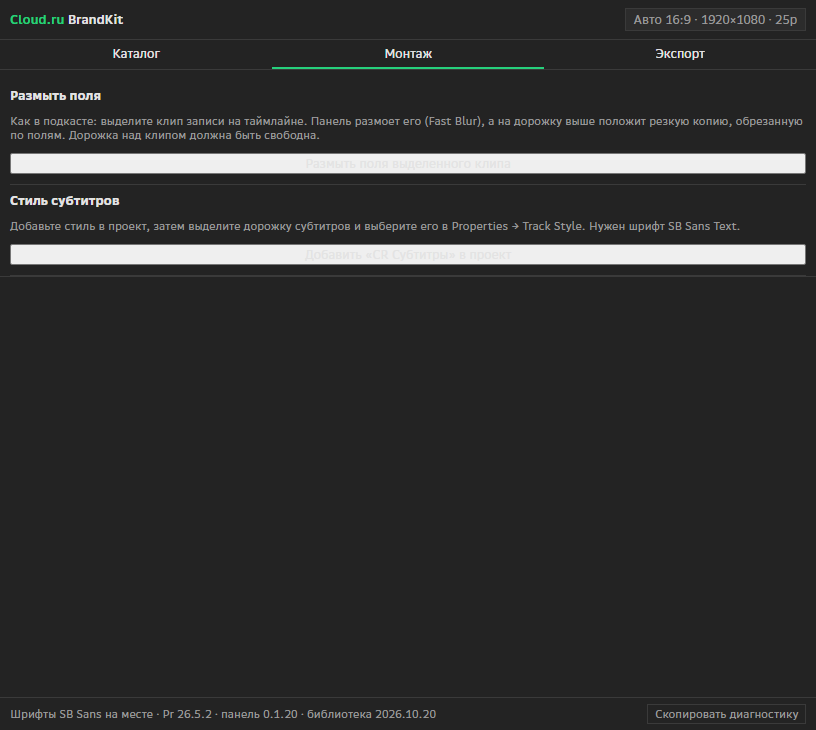
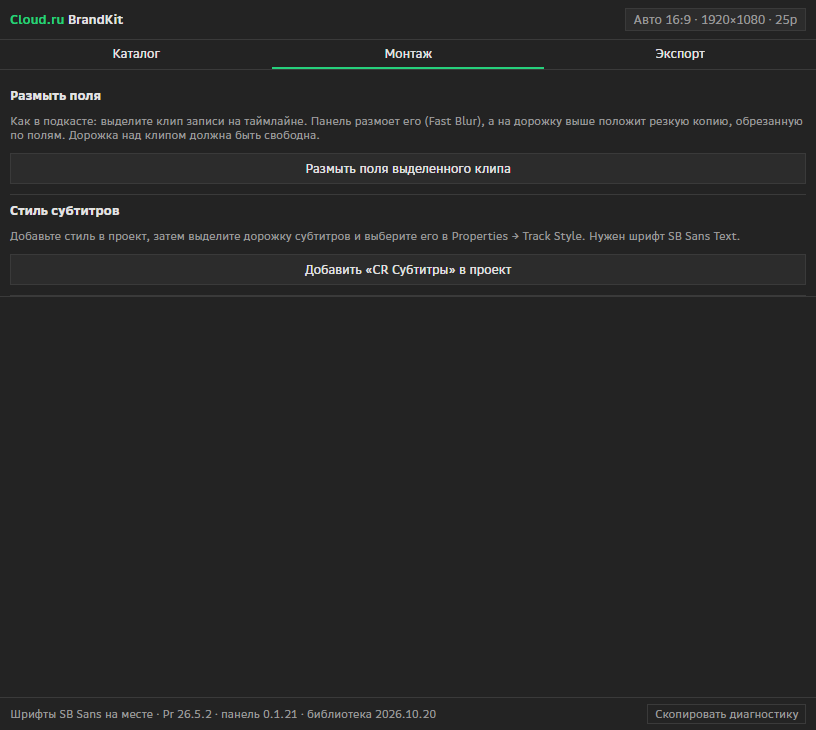
test(checkpoint): Windows checkpoint green on panel 0.1.21; Track Style and the installed Premiere panel seen
Premiere media 135 (the A2 sound check added), transfer 4, ui 22; AE ui 20
with the dark tool buttons of «Движение»; npm test 804 passed. Track Style
lists the caption style as «CR Субтитры» and one click gives it (SB Sans
Text 35, tracking −32, the plate): edit-track-style.png. The release panel
0.1.20 in Premiere: Каталог, Монтаж, Экспорт, both edit buttons. Plan 4 and
the reply note that development goes on here, without the cloud.

Changed region(s): [[0.0, 0.2712, 1.0, 0.3918], [0.0, 0.211, 1.0, 0.2411]]

diff --git a/docs/superpowers/plans/2026-10-07-phase2-templates.md b/docs/superpowers/plans/2026-10-07-phase2-templates.md
@@ -1,6 +1,7 @@
 # План 4: шаблоны и эффекты (фаза 2), продолжение
 
 **Дата:** 2026-10-07. **Ветка:** `claude/determined-cannon-eum3ei`.
+**2026-10-20:** вся разработка идёт на сборочном ПК, без облака (решение пользователя). Дампы остаются в `C:/CRBK/work/dumps` и в репозиторий не переносятся; разделы «Главная помеха» и «Что делается где» больше не нужны, все шаги — здесь.
 **Основание:** spec §3, фаза 2 «Шаблоны и эффекты»: ~25 параметрических мастеров (§5), ~12 `.ffx`, рендеры T2, звуки, пресеты AME; конвейер §4.4. Попакетно: первый пакет (логошоты и титры) прошёл весь путь, дальше подкаст, SMM, курсы, вебинары.
 
 ## Где мы
@@ -13,8 +14,8 @@
 | `.ffx` (11 движений §5) | 0 | все 11 |
 | Рендеры T2 (петли, переходы, интро/аутро) | только синтетика стенда | все |
 | Звуки | опись (`docs/research/sounds`), громкость измерена | отбор, нормализация, элементы библиотеки |
-| Стиль субтитров Premiere | собран в интерфейсе (D25), элемент библиотеки `CRS_SubtitleStyle` | проверка в панели 0.1.20 — у агента |
-| Размытие полей подкаста | кнопка панели «Размыть поля» (D11) | проверка у агента |
+| Стиль субтитров Premiere | собран в интерфейсе (D25), элемент библиотеки `CRS_SubtitleStyle`; в Track Style виден как «CR Субтитры» и применяется одним щелчком (2026-10-20) | — |
+| Размытие полей подкаста | кнопка панели «Размыть поля» (D11); с 0.1.21 копия — подклип без звука, звук на A2 не трогается | — |
 
 ## Главная помеха: дампы не в облаке
 

diff --git a/docs/research/edit-reply-2026-10-07.md b/docs/research/edit-reply-2026-10-07.md
@@ -196,3 +196,14 @@
 3. **Решения** по дампам и `.ffx` (выше).
 
 Установлена релизная панель без `.debug`. Для следующих прогонов стендов нужен `node tools/panel/install-dev.mjs` и перезапуск хостов.
+
+## Обновление 2026-10-20, вечер
+
+Дальше разработка идёт на сборочном ПК, без облака (решение пользователя); ответ остаётся как запись.
+
+- **Track Style:** стиль виден как **«CR Субтитры»** (имя элемента, которое даёт панель) и применяется одним щелчком: SB Sans Text 35, трекинг −32, плашка. Снимок — `docs/research/premiere/edit-track-style.png`.
+- **Установленная панель в Premiere:** Каталог, Монтаж, Экспорт, обе кнопки на «Монтаже» — `docs/research/installer/pr-0.1.20-installed.png`.
+- **Исправлено в 0.1.21:** находка 1 (копия — подклип без звука, звук на A2 цел), откат таймлайна — 3 шага вместо 6 (4 с подклипом), находка 5 (кнопки «Монтажа» и «Движения» в тёмном оформлении панели).
+- **Установщик:** находки 3 и 4 — замена переименованием, метка завершения для `install.cmd`, тесты Windows-установщика в песочнице.
+- **Дампы плана 4** в репозиторий не нужны: они читаются на месте из `C:/CRBK/work/dumps`.
+- **Тестовый проект стенда** `C:/CRBK/work/panel-live/pr/panel_live.prproj` с 5 октября содержит пробный монтаж пользователя «5. Coordination Referee» (файлы из `Downloads/на прогон` сейчас offline). Стенд его не трогает, кроме своей последовательности UI_check.

diff --git a/docs/research/checkpoint/win-2026-10-20.md b/docs/research/checkpoint/win-2026-10-20.md
@@ -2,21 +2,21 @@
 
 Итог: **зелёный**.
 
-npm test: зелёный (Tests  799 passed | 20 skipped (819)).
+npm test: зелёный (Tests  804 passed | 20 skipped (824)).
 
 | Критерий | Хост | Набор | Итог | Проверок |
 |---|---|---|---|---|
 | Сквозные сценарии | AE | base | да | 177 |
 | Сквозные сценарии | AE | export | да | 150 |
-| Сквозные сценарии | AE | ui | да | 20 |
 | Сквозные сценарии | Premiere | base | да | 207 |
 | Сквозные сценарии | Premiere | export | да | 112 |
-| Сквозные сценарии | Premiere | ui | да | 22 |
 | Сквозные сценарии | AE | media | да | 219 |
 | Перенос проекта (на этой машине) | AE | media | да | 6 |
-| Сквозные сценарии | Premiere | media | да | 132 |
+| Сквозные сценарии | Premiere | media | да | 135 |
 | Перенос проекта (на этой машине) | Premiere | transfer | да | 4 |
+| Сквозные сценарии | Premiere | ui | да | 22 |
+| Сквозные сценарии | AE | ui | да | 20 |
 
 Вручную:
-- Чистая установка: `docs/research/installer/windows-0.1.17.json`, `docs/research/installer/windows-0.1.18.json`, `docs/research/installer/windows-recheck-2.json`, `docs/research/installer/windows-recheck.json`, `docs/research/installer/windows.json`
+- Чистая установка: `docs/research/installer/windows-0.1.17.json`, `docs/research/installer/windows-0.1.18.json`, `docs/research/installer/windows-0.1.20.json`, `docs/research/installer/windows-recheck-2.json`, `docs/research/installer/windows-recheck.json`, `docs/research/installer/windows.json`
 - Открытие на другой ОС: нет отчёта: node tools/panel/live.mjs --host ae|pr --open <проект с другой ОС>
